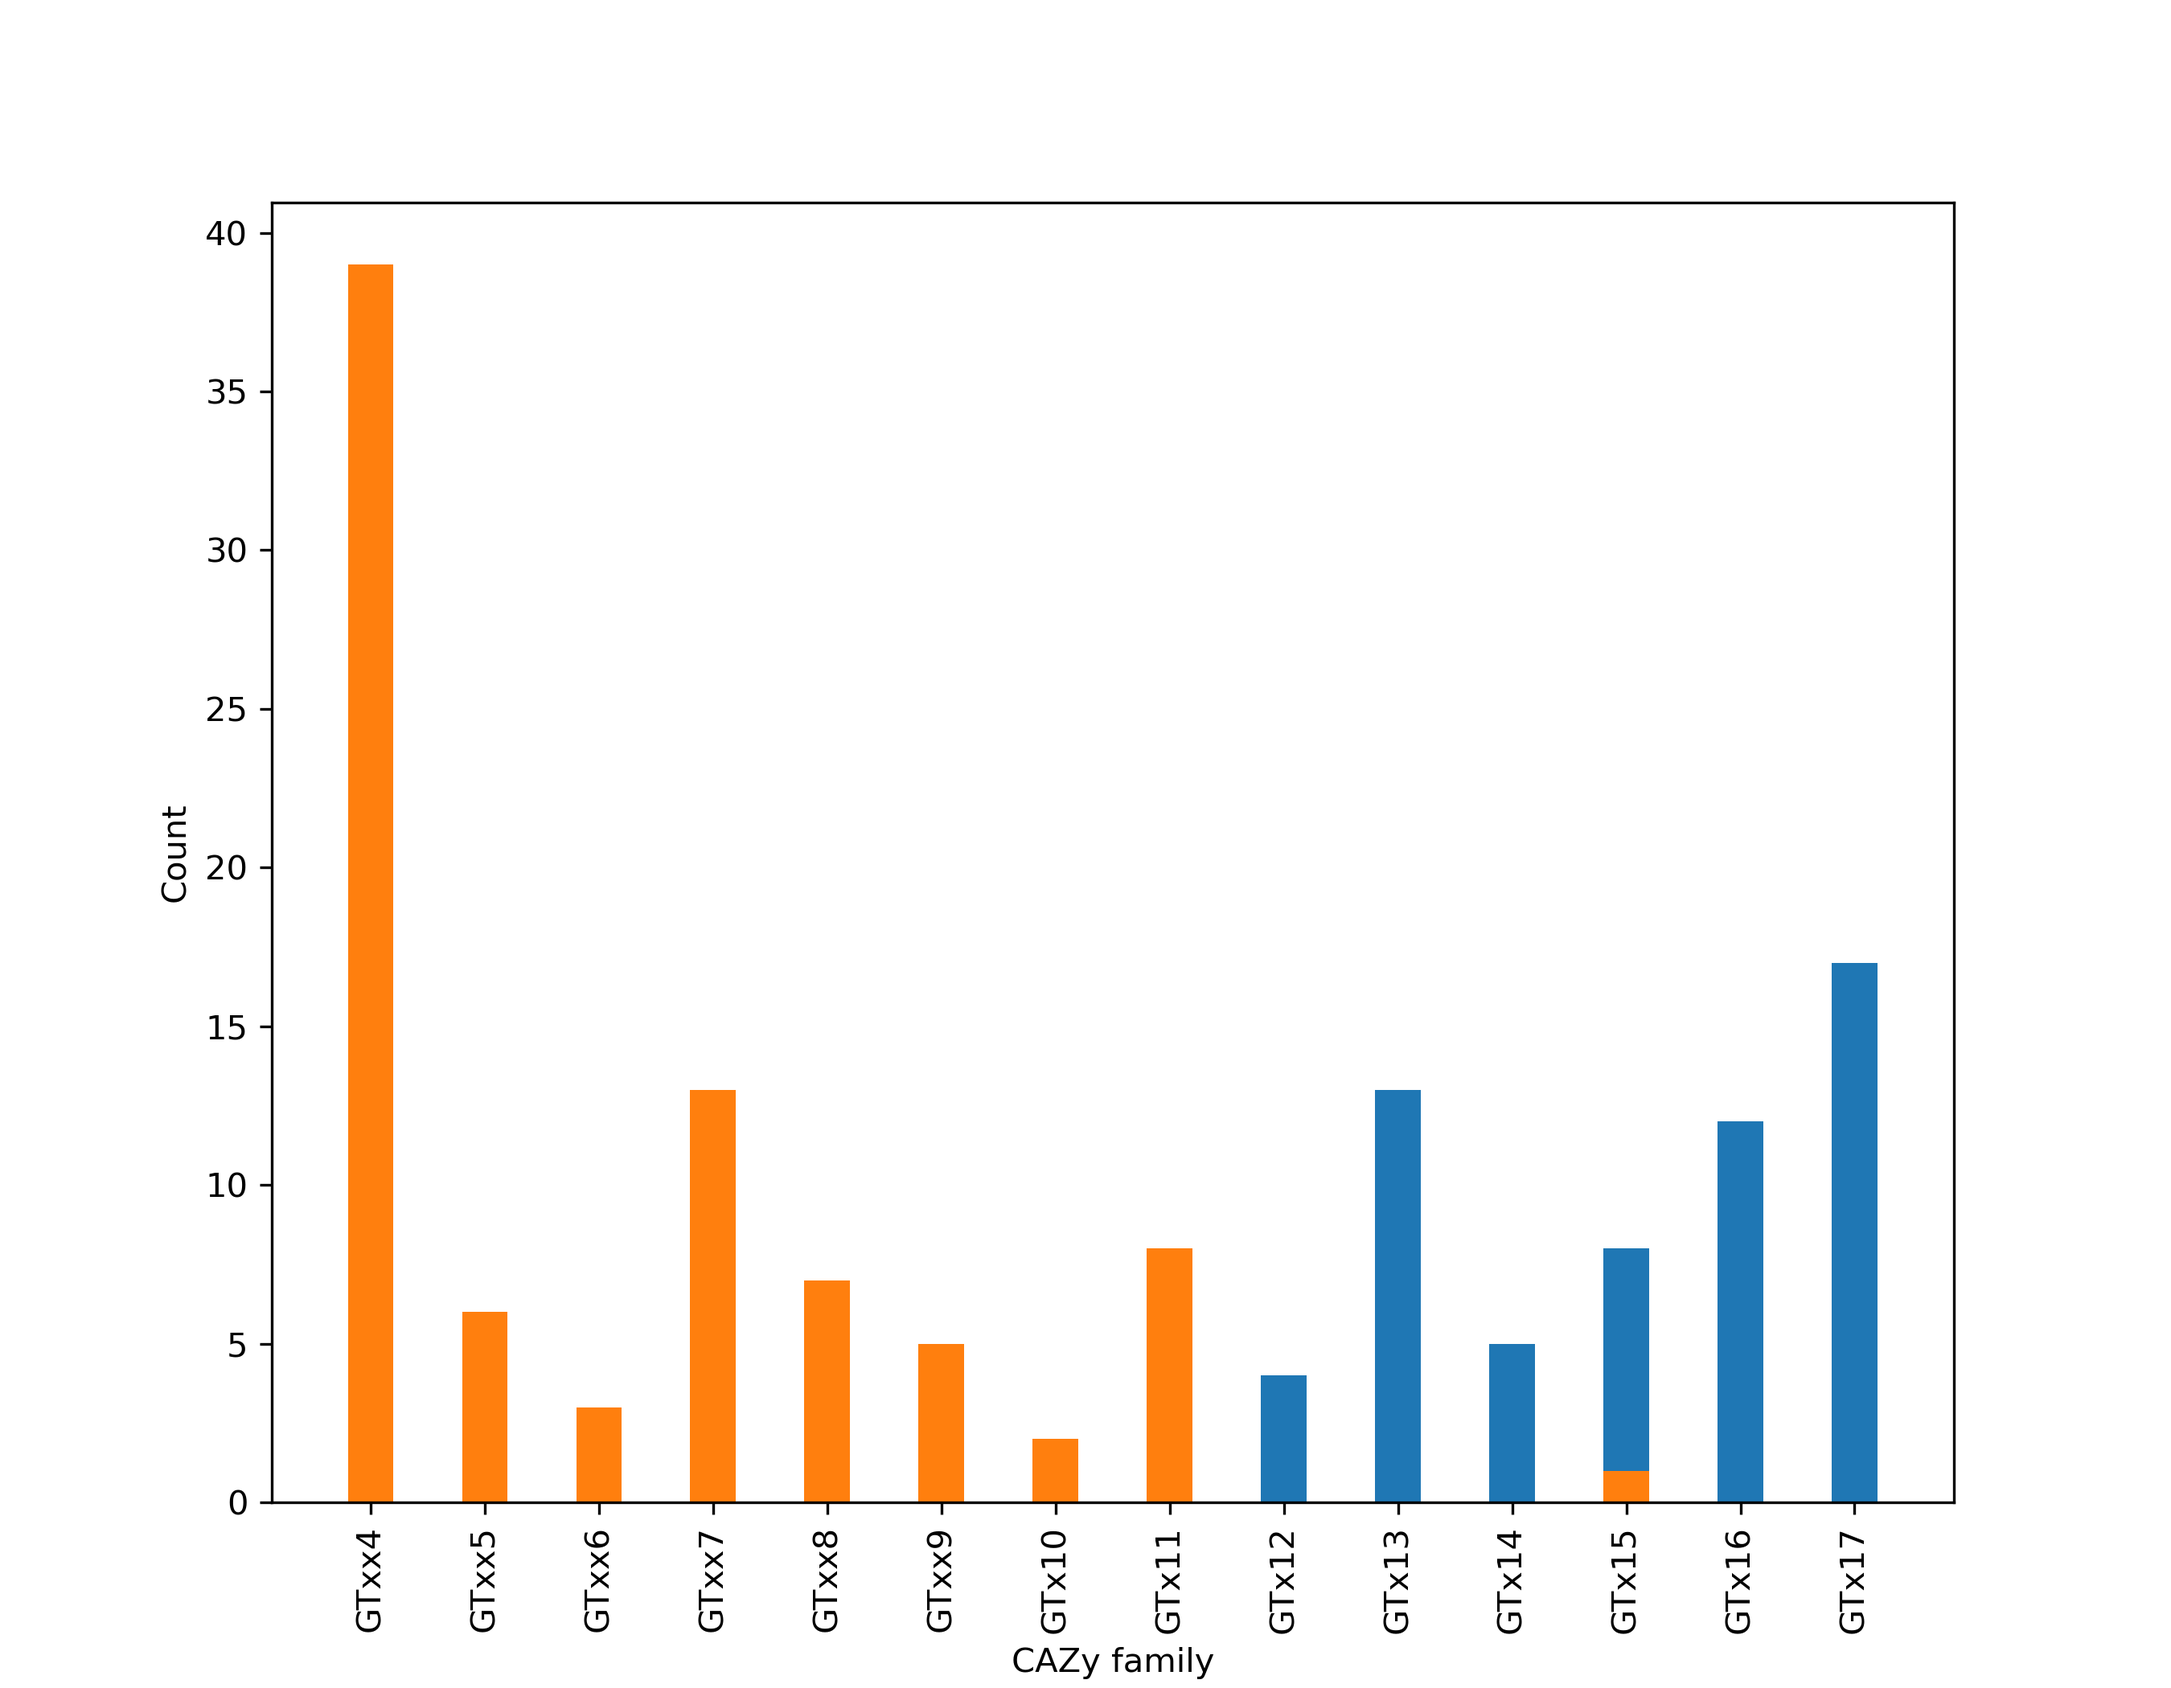
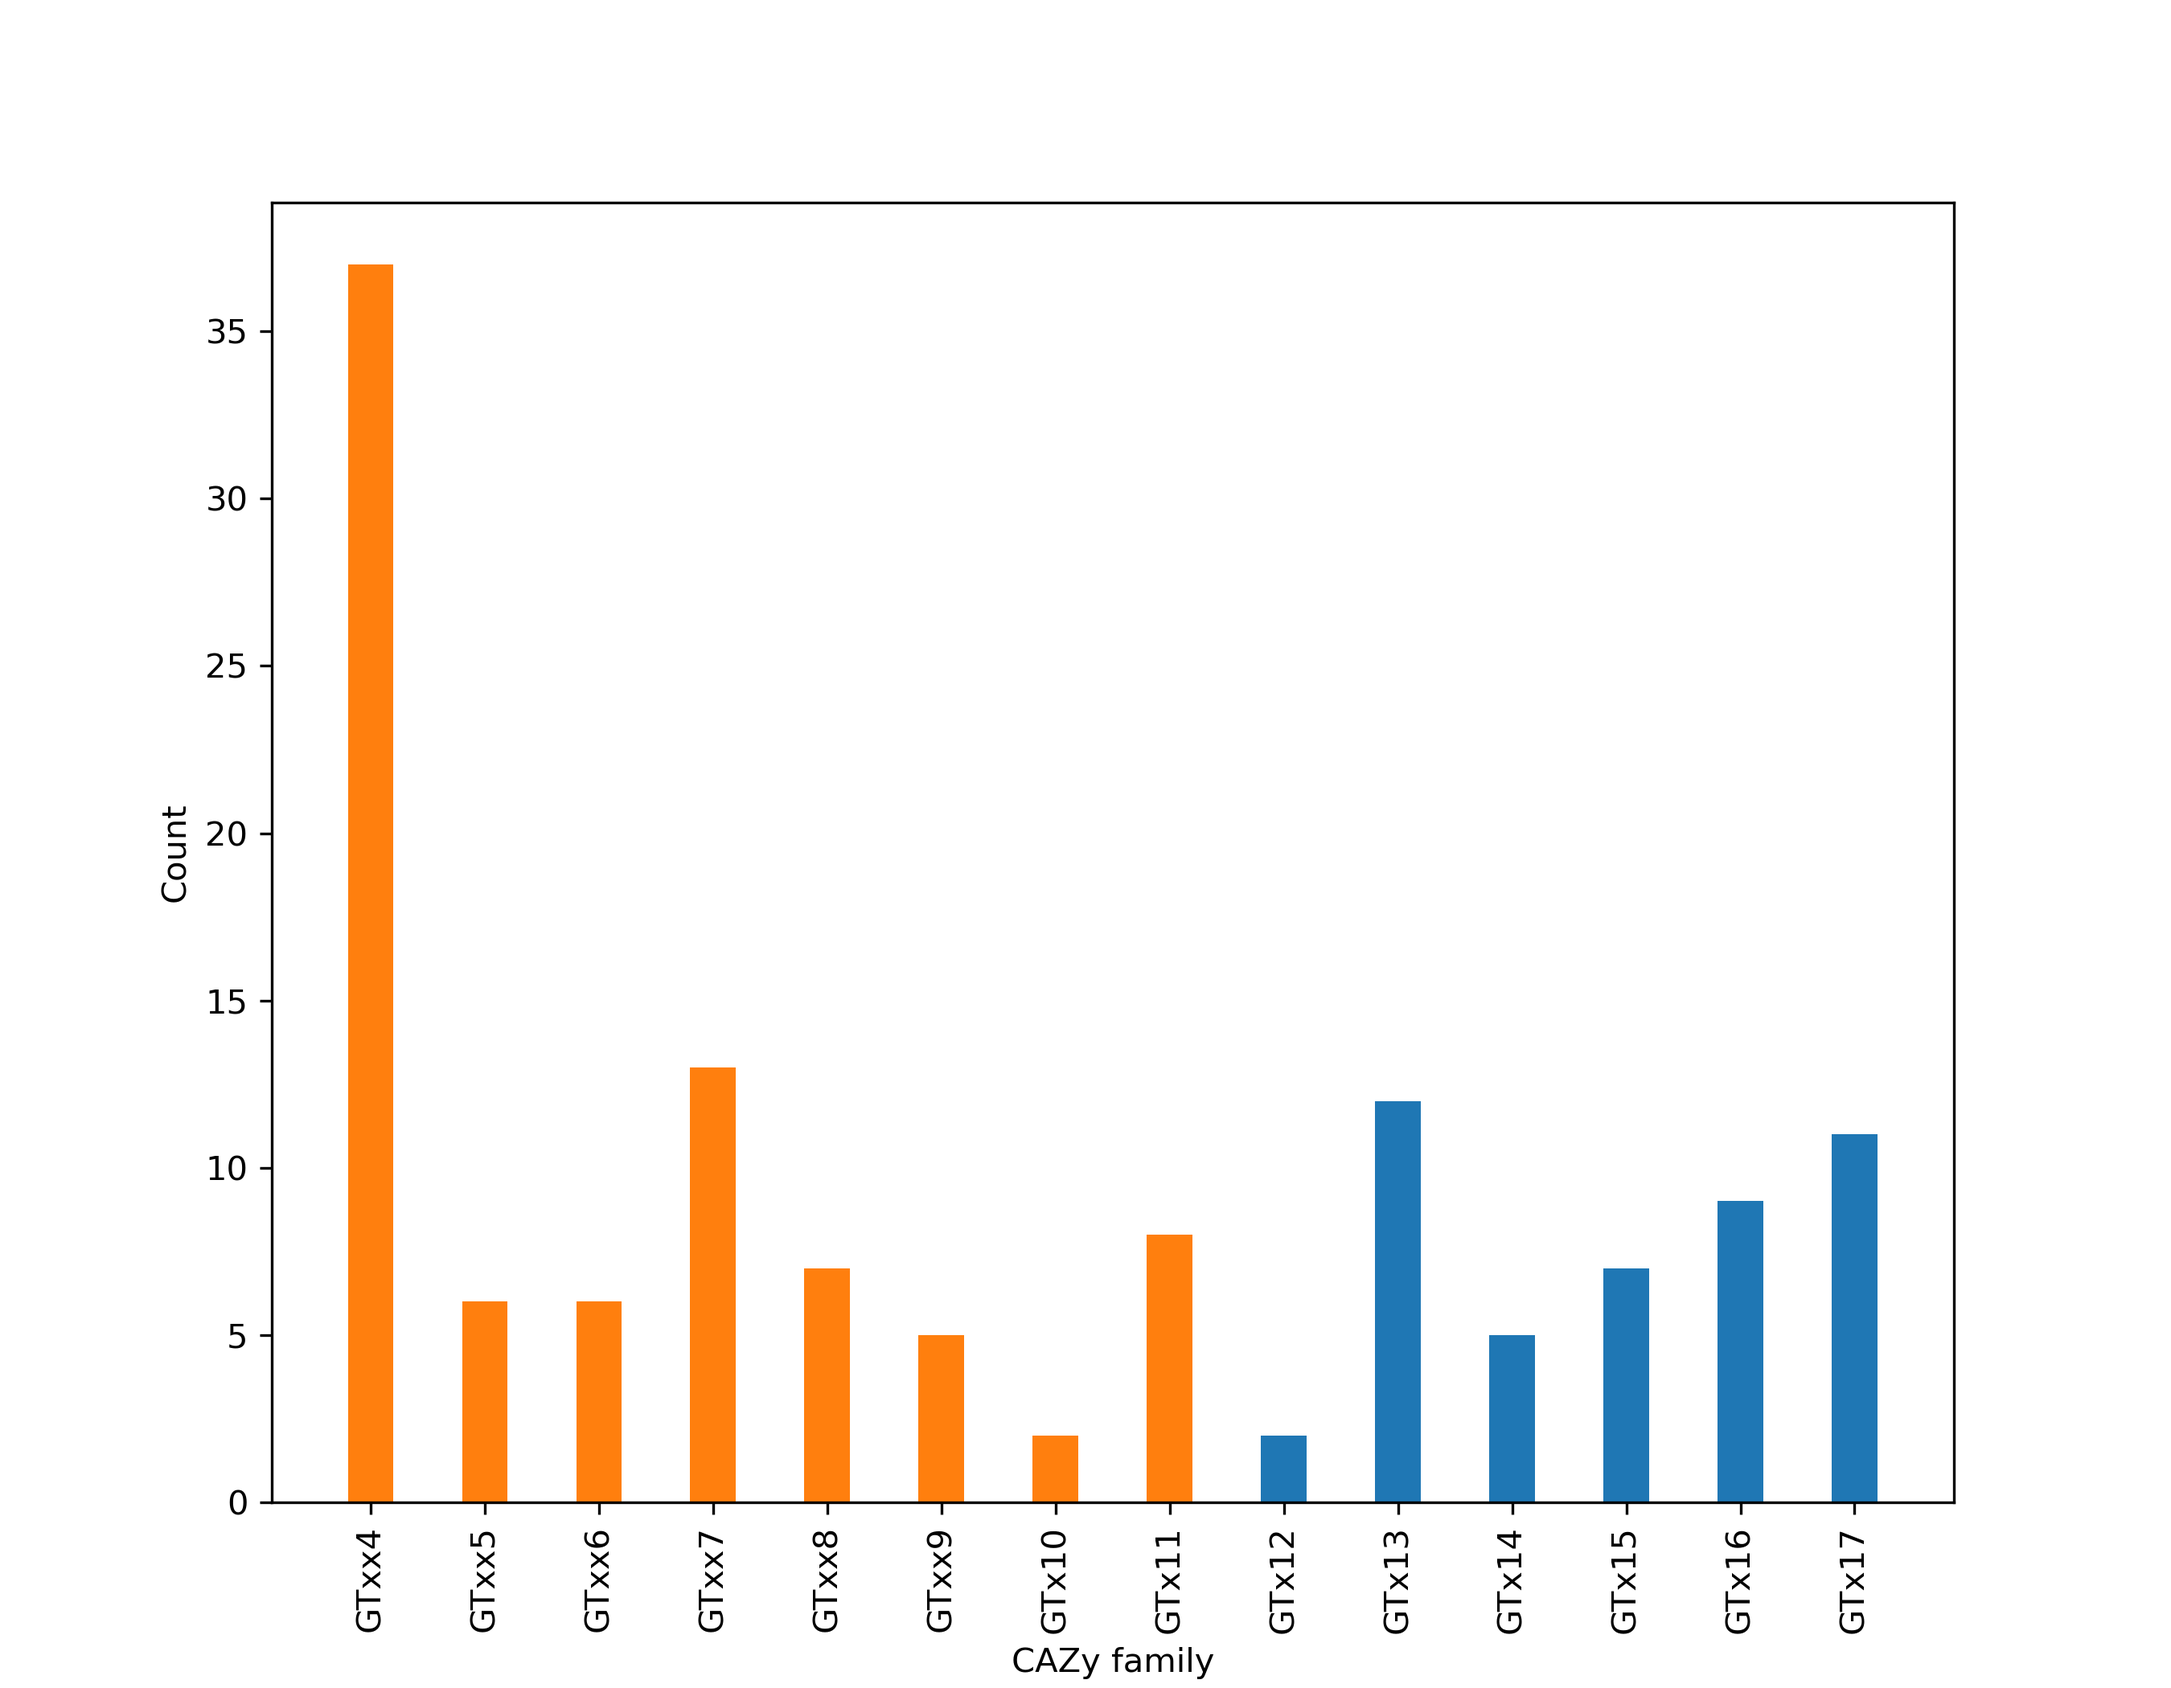
updated stereochemistry barplot

diff --git a/src/ssn-clustering/analyse-superclustering/plot-stereochemistry-final-families-new.py b/src/ssn-clustering/analyse-superclustering/plot-stereochemistry-final-families-new.py
@@ -3,9 +3,10 @@ import numpy as np
 import matplotlib.pyplot as plt
 import pandas as pd
 
-df = pd.read_csv("data/wzy/final-family-membership-mod.csv", sep='\t')
+df = pd.read_csv("data/wzy/wzy-with-CAZy-family.tsv", sep='\t')
 families = sorted(pd.unique(df.CAZy_family.astype(str)).tolist())
 families.remove('nan')
+
 family2counts = {}
 old2newnames = {'X617': 'GTxx4', 'X631': 'GTxx5', 'X634': 'GTxx6',
          'X613': 'GTxx7', 'X614': 'GTxx8', 'X609': 'GTxx9', 'X607': 'GTx10', 'X605': 'GTx11',
@@ -15,7 +16,7 @@ for family in families:
     axial_counts = len(df[(df.CAZy_family == family) & (df.axial_equatorial == 'axial')])
     equatorial_counts = len(df[(df.CAZy_family == family) & (df.axial_equatorial == 'equatorial')])
     family2counts[new_name] = {'axial_counts': axial_counts, 'equatorial_counts': equatorial_counts}
-
+print(df[(df.CAZy_family == 'X614') & (df.axial_equatorial == 'axial')])
 order = ['GTxx4', 'GTxx5', 'GTxx6', 'GTxx6', 'GTxx7', 'GTxx8', 'GTxx9', \
          'GTx10', 'GTx11', 'GTx12', 'GTx13', 'GTx14', 'GTx15', 'GTx16', 'GTx17']
 

diff --git a/README.md b/README.md
@@ -240,6 +240,8 @@ It also creates the supplementary table: `manuscript/supplementary/supplementary
 (FINAL!)
 The final list of seed accessions with their family membership is `data/wzy/seeds-cazyfamily.xlsx`.
 
+A merge of `data/wzy/wzy.tsv` and `data/wzy/seeds-cazyfamily.xlsx` is made by running `python src/wzy-seed-search/make-wzy-tsv-with-family.py`. This creates the file `data/wzy/wzy-with-CAZy-family.tsv`
+
 ### Make stereochemistry plot
 Run `python src/wzy-seed-search/modify.py`. This will create the file `data/wzy/final-family-membership-mod.csv`, which contains info on axial/equatorial bonds.
 
